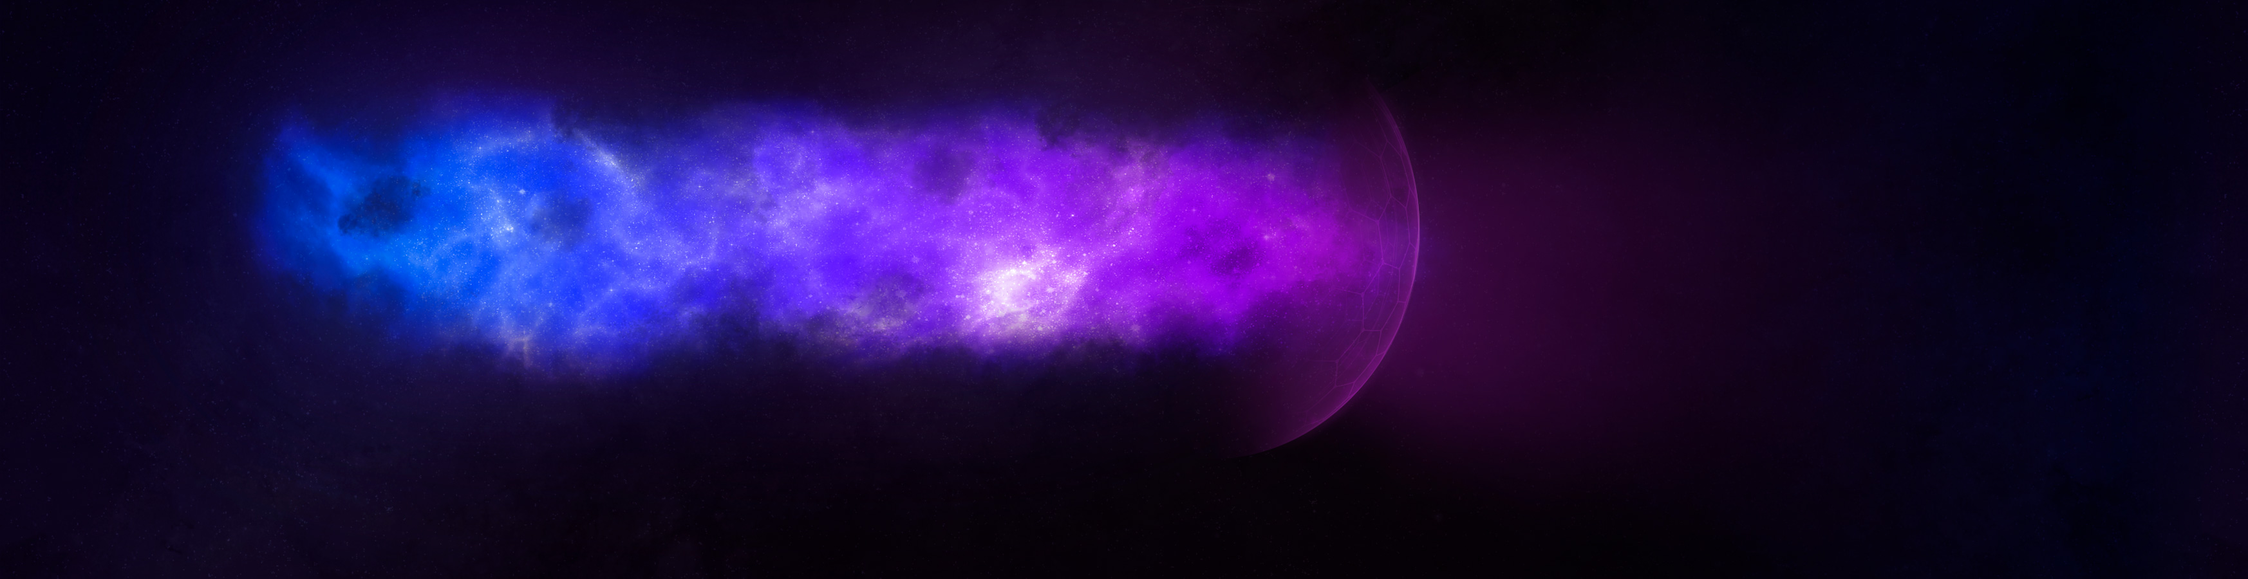
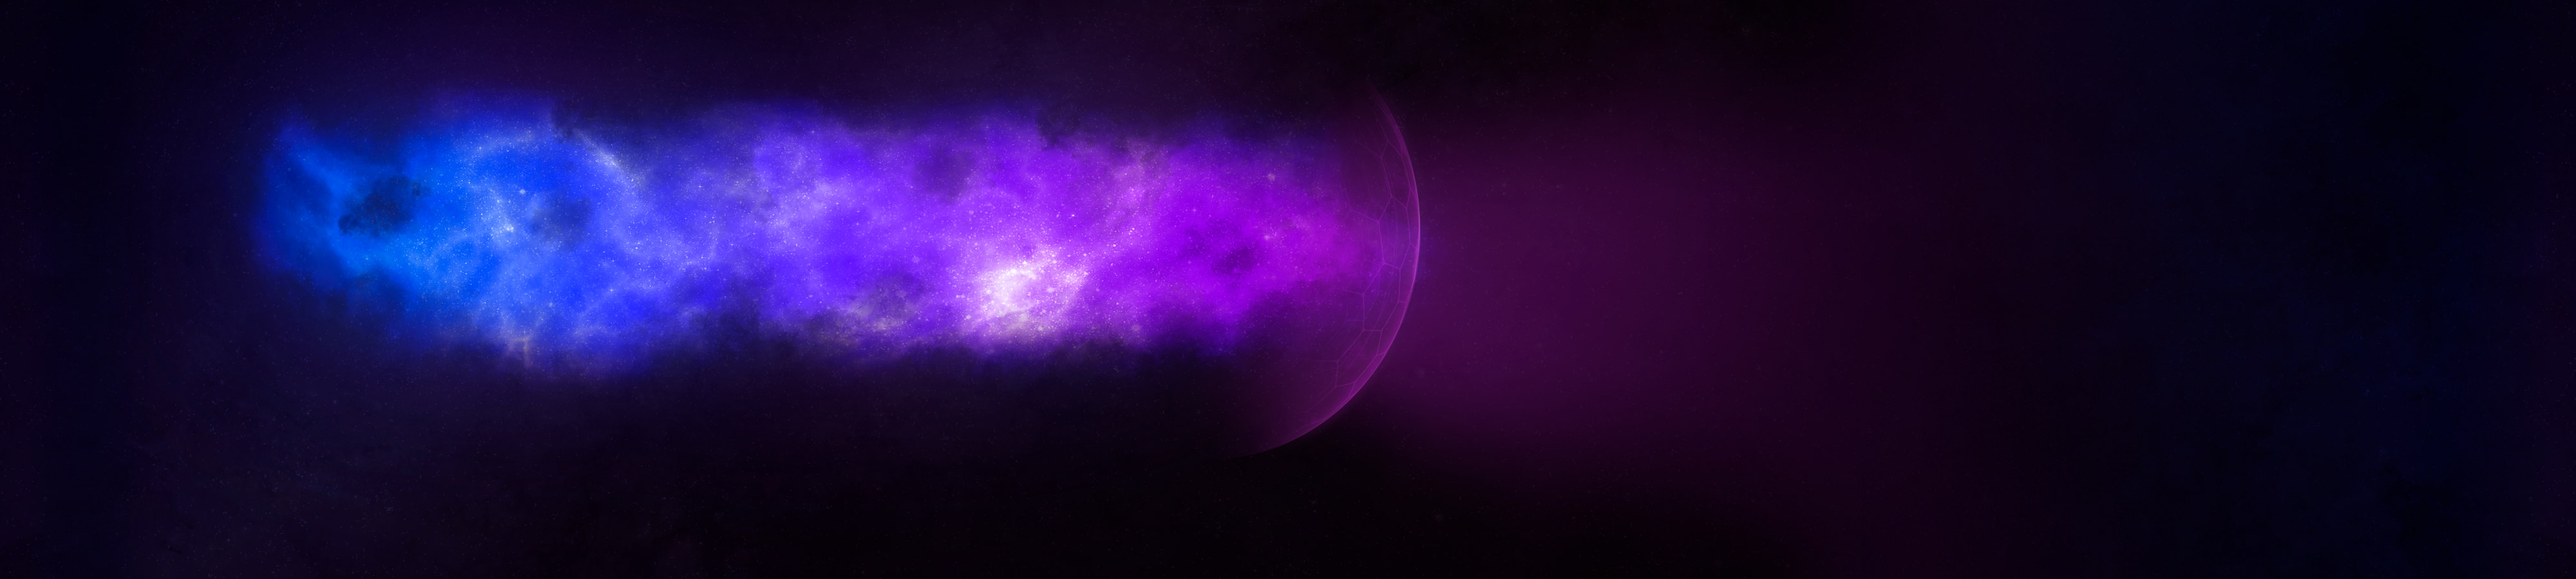
Second bg added to Slider container

Changed region(s): [[0.0936, 0.0933, 0.6555, 0.7778], [0.5619, 0.7156, 0.5931, 0.7467]]

diff --git a/app/styles/_slider.scss b/app/styles/_slider.scss
@@ -3,13 +3,19 @@
 	width: 100%;
 	//height: 100%;
 	height: 900px;
-	background: #000;
+	//background-color: #000;
+	//background: #0f091e;
+	//background: #070419;
+	background-image: url('../images/slider/back-1.jpg');
 }
+
 .swiper-slide {
 	font-size: 18px;
 	color:#fff;
 	box-sizing: border-box;
 	padding: 40px 60px;
+	//background-color: #0f091e;
+	//background-image: url('../images/slider/back-1.jpg');
 }
 .parallax-bg {
 	position: absolute;
@@ -17,8 +23,9 @@
 	top: 0;
 	width: 3492px;
 	height: 100%;
-	//background-size: cover;
-	background-position: left;
+	background-color: #0f091e;
+	background-size: cover;
+	background-position: left center;
 }
 
 // slide 1
@@ -116,7 +123,7 @@
 	position: absolute;
 	left: -70px;
 	bottom: 0;
-	z-index: 50;
+	z-index: 150;
 }
 
 // Arrows
@@ -129,6 +136,10 @@
 }
 
 // Pagination
+.swiper-pagination {
+	pointer-events: none;
+}
+
 .swiper-pagination-bullet {
 	width: 22px;
 	height: 22px;

diff --git a/app/index.html b/app/index.html
@@ -105,7 +105,9 @@
 
   <!-- Slider section -->
   <div class="swiper-container">
-    <div class="parallax-bg" style="background-image:url('images/slider/back.jpg')" data-swiper-parallax="-25%"></div>
+
+    <div class="parallax-bg" style="background-image:url('http://vtrvl.ru/test/back.jpg')" data-swiper-parallax="-75%"></div>
+
     <div class="swiper-wrapper">
 
       <div class="swiper-slide" data-swiper-autoplay="2000">
@@ -160,8 +162,8 @@
     <!-- Add Pagination -->
     <div class="swiper-pagination swiper-pagination-white"></div>
     <!-- Add Navigation -->
-    <div class="swiper-button-prev swiper-button-white hide-mobile"></div>
-    <div class="swiper-button-next swiper-button-white hide-mobile"></div>
+    <!-- <div class="swiper-button-prev swiper-button-white hide-mobile"></div> -->
+    <!-- <div class="swiper-button-next swiper-button-white hide-mobile"></div> -->
   </div>
   <!-- End Slider section -->
   
